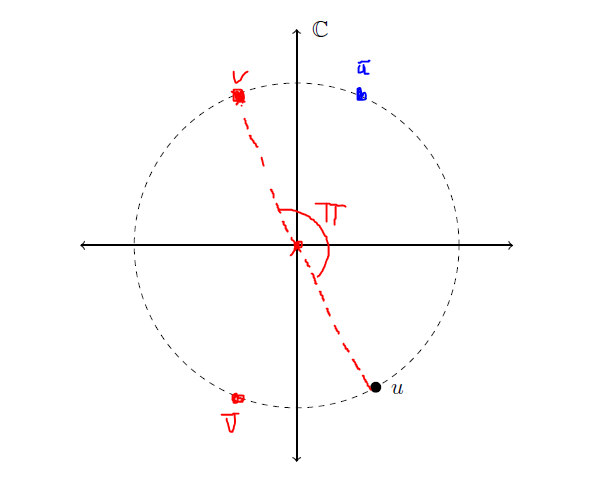
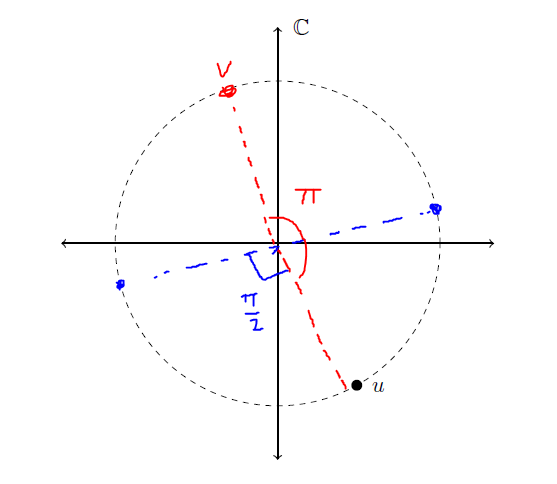
fixed typos and added new conditions

diff --git a/Complex_Sequences_and_Series/week2/question2.html b/Complex_Sequences_and_Series/week2/question2.html
@@ -34,7 +34,7 @@
     Building New Roots
     </h4>
     <p>We know that \(e^{i\pi} = -1\) based off of Euler's identity. We know that any value raised to the even power will always be positive or 0. 
-        Thus if \(w = -1\), then \(w^4=1\) satisfying the inital condition. Thus one value that \(w\) can take is \(w = e^{i\pi}\) 
+        Thus if \(w = -1\), then \(w^4=1\) satisfying the inital condition. Thus <b>one</b> value that \(w\) can take is \(w = e^{i\pi}\) 
     </p>
     <p>Let one root of \(z_0=r[\cos(\theta ) + \sin(\theta)] = re^{i\theta}\).</p>
     <p>Building a second root gives...</p>
@@ -72,10 +72,19 @@
     <p>Since \(v^4 - u^4 =0\), therefore \(v\) must also be a root to \(z_0\) under the assumption that \(u\) is already a root. </p>
     <h3>
         Problem 2 (b)
-       </h3>
-       <p>
-           We know based on the polar coordinates that the newly built root is simply a full \(\pi\) rotation of the original root. 
-       </p>
+    </h3>
+    <p>
+        We know that \(w^4=1\), we also know that \(w\) can also take on complex values as well. \(w\) can equal \(w=-i\) as well! In which case, \(e^{i\frac{\pi}{2}\) can also build a solution
+        that we can take into account. 
+
+    </p>
+    <p>
+        We know based on the polar coordinates that the newly built root is simply a full \( \pi \) rotation of the original root. If we build with the value \(w=-i =e^{i\frac{\pi}{2} \) we can get a rotation of
+        \(\frac{\pi}{2}\) as well. With that we can also build a value thats \(\pi\) from the newest value giving us 4 different values. We know that this is all the possible solutions 
+        from the fundemental theorem of algebra and thus we can stop our root "building" for now. 
+
+    </p>
+    <p>We know we've exh</p>
     <div style="text-align: center;">
         <img src="complex_conju.PNG" >
     </div>

diff --git a/Complex_Sequences_and_Series/week2/1.8.html b/Complex_Sequences_and_Series/week2/1.8.html
@@ -54,6 +54,6 @@
    \[y =  \frac{ (1+2z+z^2) -  (1+2z+z^2) }{|1+z|^2} \]
    \[y =  \frac{ 0 }{|1+z|^2} \]
    \[y =  0\]
-   <p>Since \(y=0\), \(\forall z \in \mathbb{C}\), \(\therefore \frac{ 1+z}{|1+z|} = \sqrt{z}\) </p>
+   <p>Since \(y=0\), \(\forall z \in \mathbb{C}\), \(\therefore \frac{ 1+z}{|1+z|} = \sqrt{z}\) for \(z \neq -1\) since it will give an undefined value for \(w\)</p>
 </body>
 </html>
